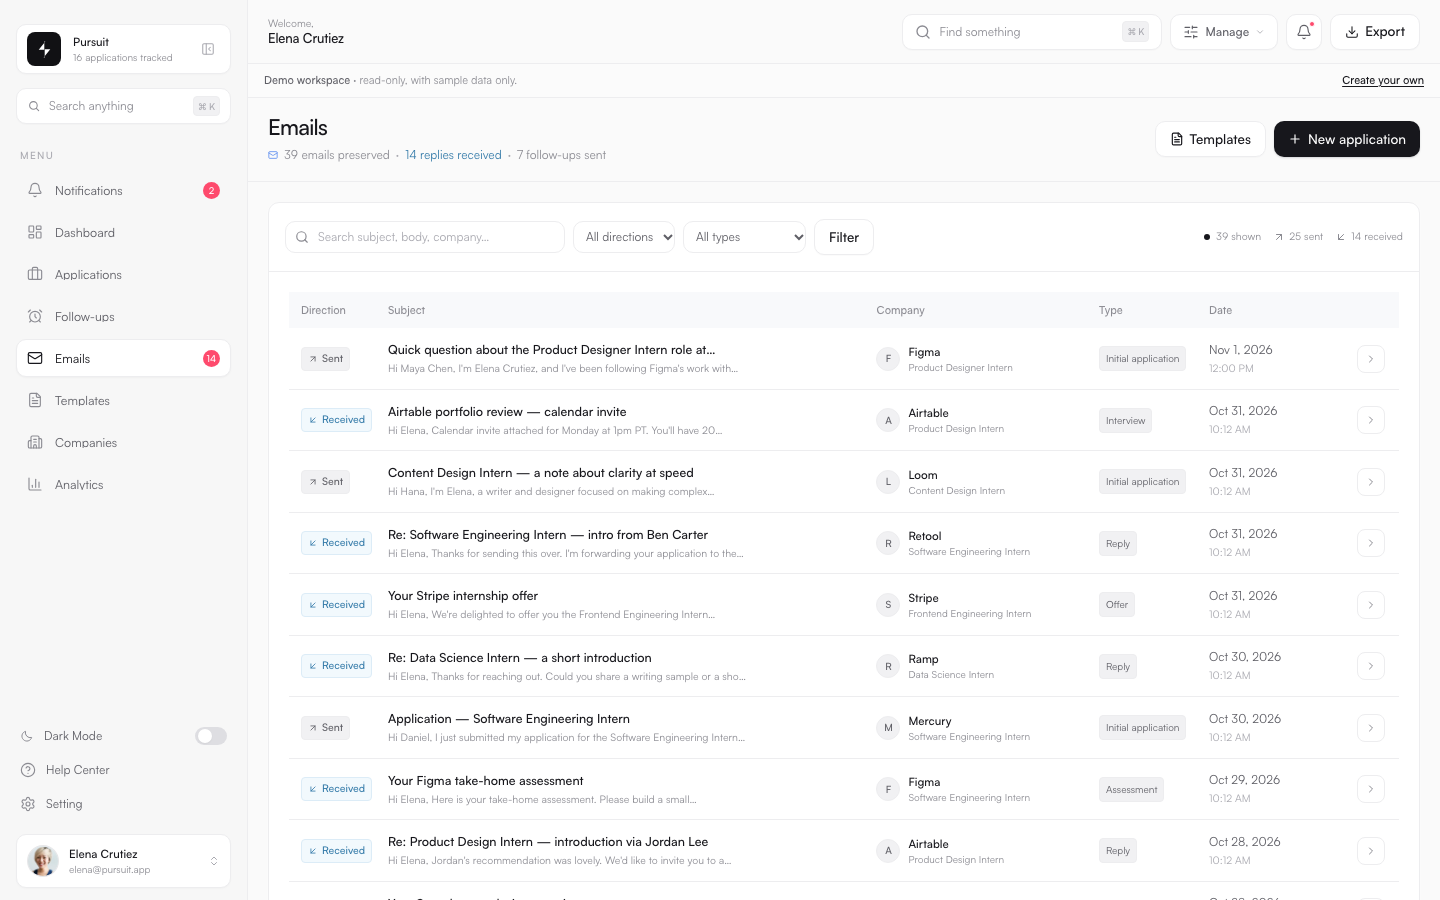
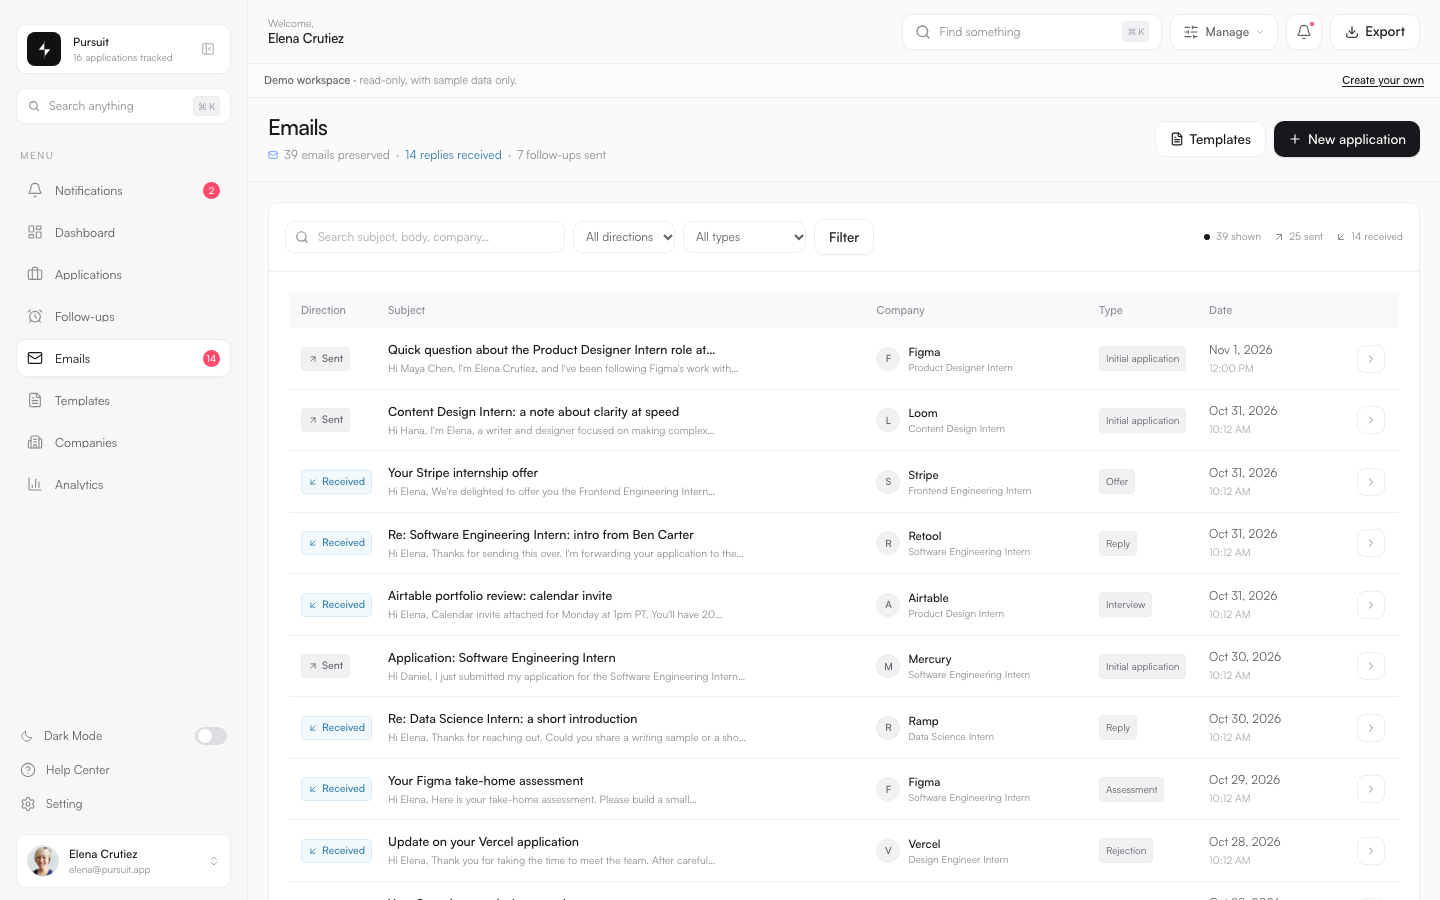
Refresh demo screenshots after copy cleanup

diff --git a/lib/db/seed.ts b/lib/db/seed.ts
@@ -115,7 +115,7 @@ Elena`,
         subject: "Re: Product design at Linear: a quick note",
         body: `Hi Elena,
 
-Thanks for reaching out: your portfolio is lovely. We'd like to learn more about how you approach product design. Are you free for a 30 minute conversation with me and our design lead next week?
+Thanks for reaching out. Your portfolio is lovely. We'd like to learn more about how you approach product design. Are you free for a 30 minute conversation with me and our design lead next week?
 
 Best,
 Maya`,
@@ -127,7 +127,7 @@ Maya`,
         subject: "Re: Product design at Linear: a quick note",
         body: `Hi Maya,
 
-Thank you: I'd love that. Thursday afternoon works well for me. Looking forward to it.
+Thank you. I'd love that. Thursday afternoon works well for me. Looking forward to it.
 
 Best,
 Elena`,
@@ -262,7 +262,7 @@ Elena`,
         subject: "Re: Product Management Intern: quick introduction",
         body: `Hi Priya,
 
-One last note from me: I know hiring seasons are busy. If the role is still open, I'd be glad to send over a short product teardown. Either way, thank you for your time.
+One last note from me. I know hiring seasons are busy. If the role is still open, I'd be glad to send over a short product teardown. Either way, thank you for your time.
 
 Best,
 Elena`,
@@ -305,7 +305,7 @@ Elena`,
         subject: "Re: Frontend internship: referred by Sam Rivera",
         body: `Hi Elena,
 
-Great to hear from you: Sam speaks highly of your work. We'd like to set up an initial call. Does next Tuesday work?
+Great to hear from you. Sam speaks highly of your work. We'd like to set up an initial call. Does next Tuesday work?
 
 Best,
 Olivia`,
@@ -380,7 +380,7 @@ Elena`,
         subject: "Re: Design engineering at Vercel",
         body: `Hi Elena,
 
-Thanks for the note. We'd like to chat: can you share a few times that work next week?
+Thanks for the note. We'd like to chat. Can you share a few times that work next week?
 
 Lucas`,
       },
@@ -681,7 +681,7 @@ Elena`,
         direction: "outbound",
         kind: "initial",
         daysAgo: 12,
-        subject: "A small concept for Spaces: and the UI/UX internship",
+        subject: "A small concept for Spaces and the UI/UX internship",
         body: `Hi Isla,
 
 I'm Elena, a designer who has been thinking a lot about how browsers can feel more like places than utilities. I put together a short concept for an ambient workspace feature and would love to share it as part of my application for the UI/UX Design Intern role.
@@ -695,7 +695,7 @@ Elena`,
         direction: "outbound",
         kind: "follow_up",
         daysAgo: 7,
-        subject: "Re: A small concept for Spaces: and the UI/UX internship",
+        subject: "Re: A small concept for Spaces and the UI/UX internship",
         body: `Hi Isla,
 
 Sharing a 90-second Loom walkthrough of the concept in case it's easier to skim. I'd love to hear how your team approaches these small moments.
@@ -833,7 +833,7 @@ Chloe`,
 
 Ben suggested I reach out about the Software Engineering Intern role. I've spent the last semester building internal tools for a research lab and would love to bring that experience to Retool.
 
-My application is attached: thank you for your time.
+My application is attached. Thank you for your time.
 
 Best,
 Elena`,
